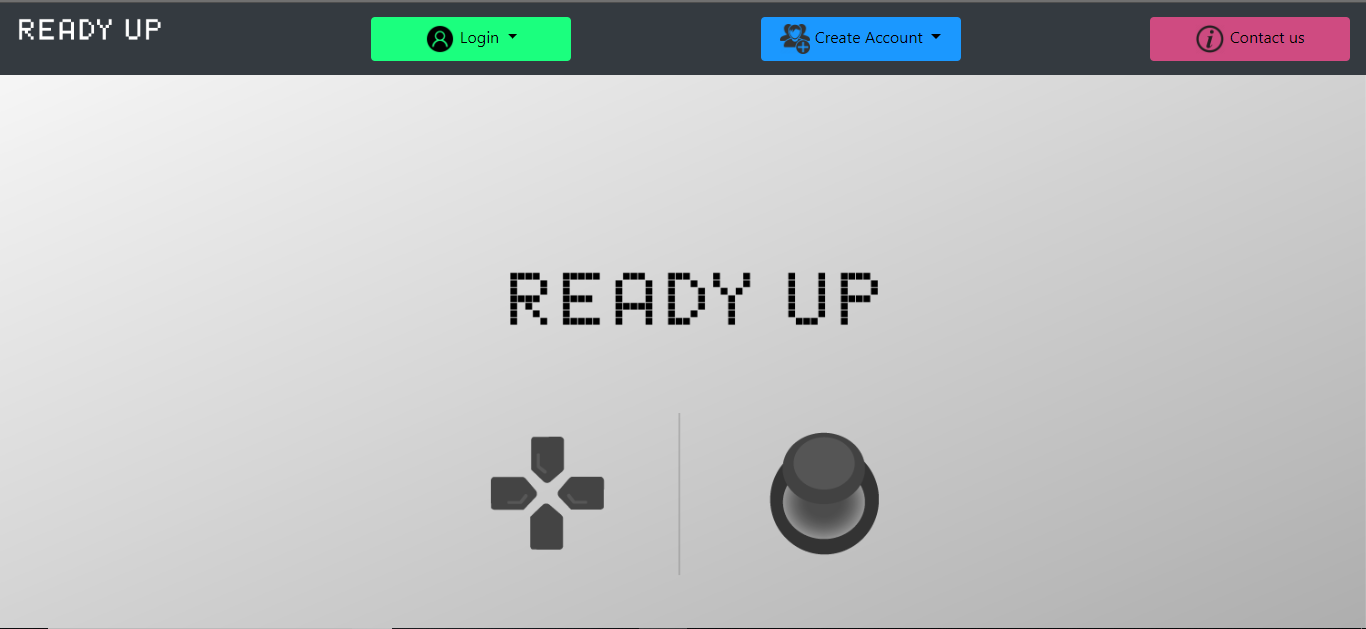
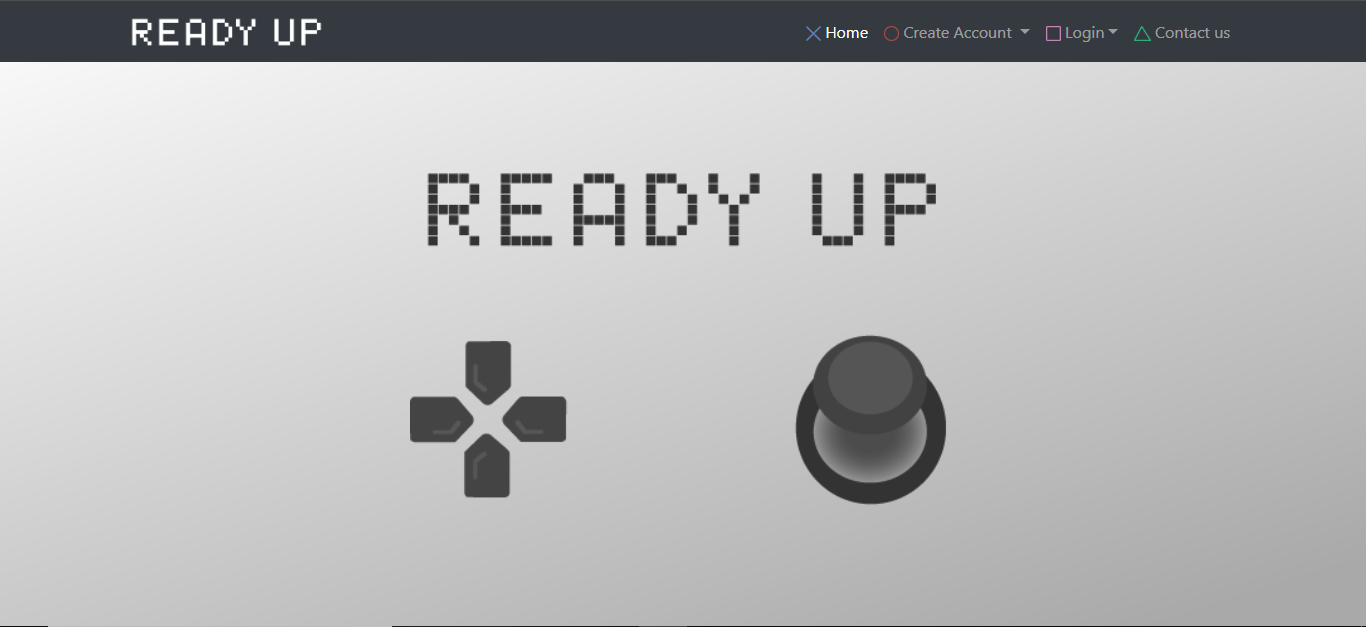
deleted example.js, updated backgrounds, updated readme, added discord server chat

diff --git a/public/styles/styles.css b/public/styles/styles.css
@@ -3,7 +3,7 @@
 }
 
 body {
-  background: url(../images/readyUpBG2.png) no-repeat 50% 80% fixed;
+  background: url(../images/plainBG.png) no-repeat 50% 80% fixed;
   background-size: cover;
 }
 
@@ -75,4 +75,23 @@ body {
 
 .customFont {
   font-family: 'Orbitron', sans-serif;
+}
+
+.main_image {
+  display: block;
+  margin-top: 100px;
+  margin-left: auto;
+  margin-right: auto;
+  height: 40%;
+  width: 40%;
+}
+
+.main-section {
+  padding-top: 40px;
+  float: left;
+}
+
+.discord {
+  padding-top: 40px;
+  margin: auto;
 }

diff --git a/readme.md b/readme.md
@@ -18,18 +18,18 @@ In managing this project we delegated out who would managed the repo, worked tog
 ## Individual Responsibilities.
 We are a team of four developers who contributed the following to this project:
 
-Cameron Wilson - Managed the GitHub repo, created landing and contact pages, css sytlying, helped create logic for matchmaking, helped on presentation and readme.
+Cameron Wilson - Managed the GitHub repo, created landing and contact pages, css sytlying, helped create logic for matchmaking, helped on presentation and readme, added discord server chat functionality.
 
-Jordan McCollum - Created the majority of the backend logic using JavaScript for authentication, login/logout functionality, logic for the gamers being able to move between queues, creaated Data Base.
+Jordan McCollum - Created the majority of the backend logic using JavaScript for authentication, login/logout functionality, logic for the gamers being able to move between queues, created Data Base, helped create logic for matchmaking.
 
-Jacob Hines - Created the background and logo, created the Queue page, image guru and styling, helped on presentation.
+Jacob Hines - Created the background and logo, created the Queue page, image guru and styling, helped on presentation, demo video.
 
-Ewin Tucker - 
+Ewin Tucker -
 
 ### Challenges
-Describe any challenges you and/or your team encountered
-that you personally played an important role in resolving.
+Getting matchmaking prompts to work when multiple players are in the same queue.
 
 ## Improvements
 We will look to incorporate a lot more games into the queue spanning across all genres. 
 Adding in real time invites.
+Add a chat feature.
